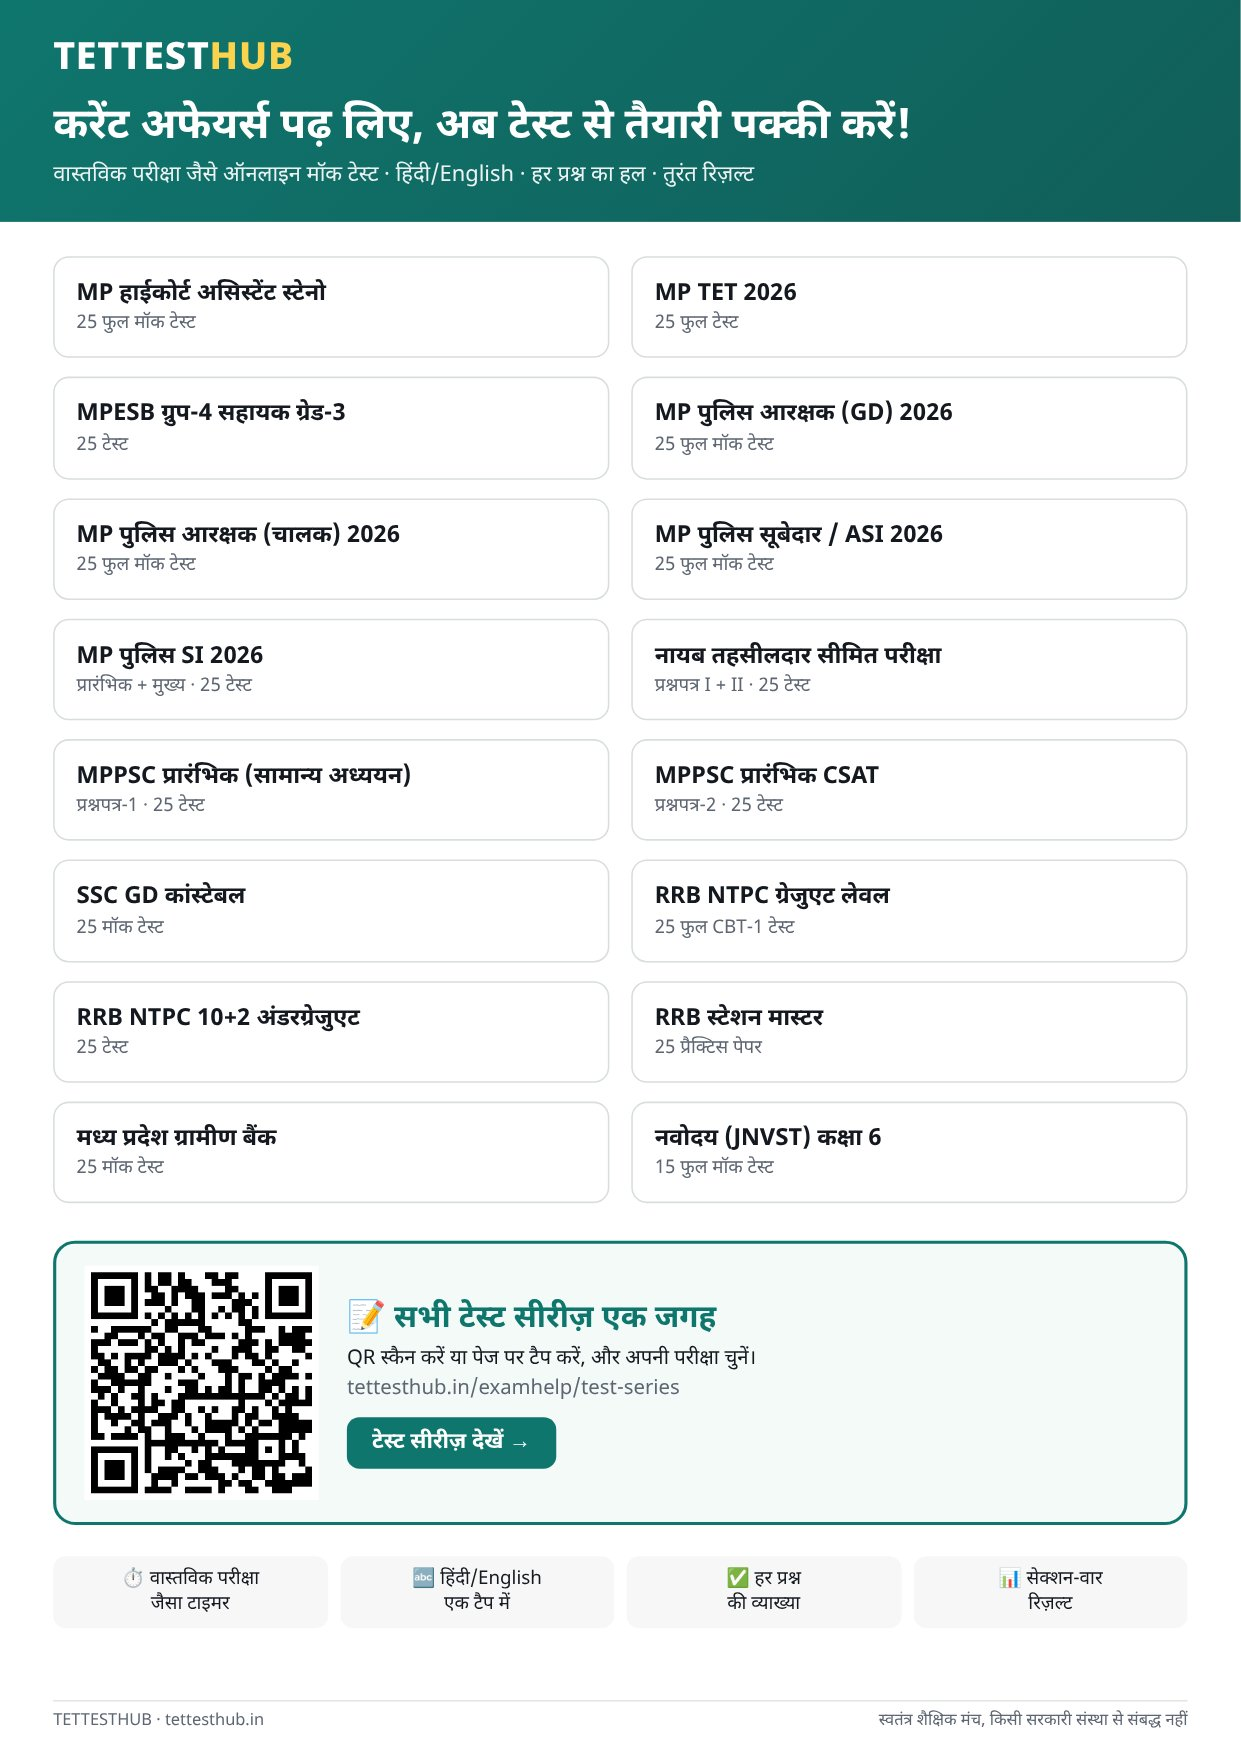
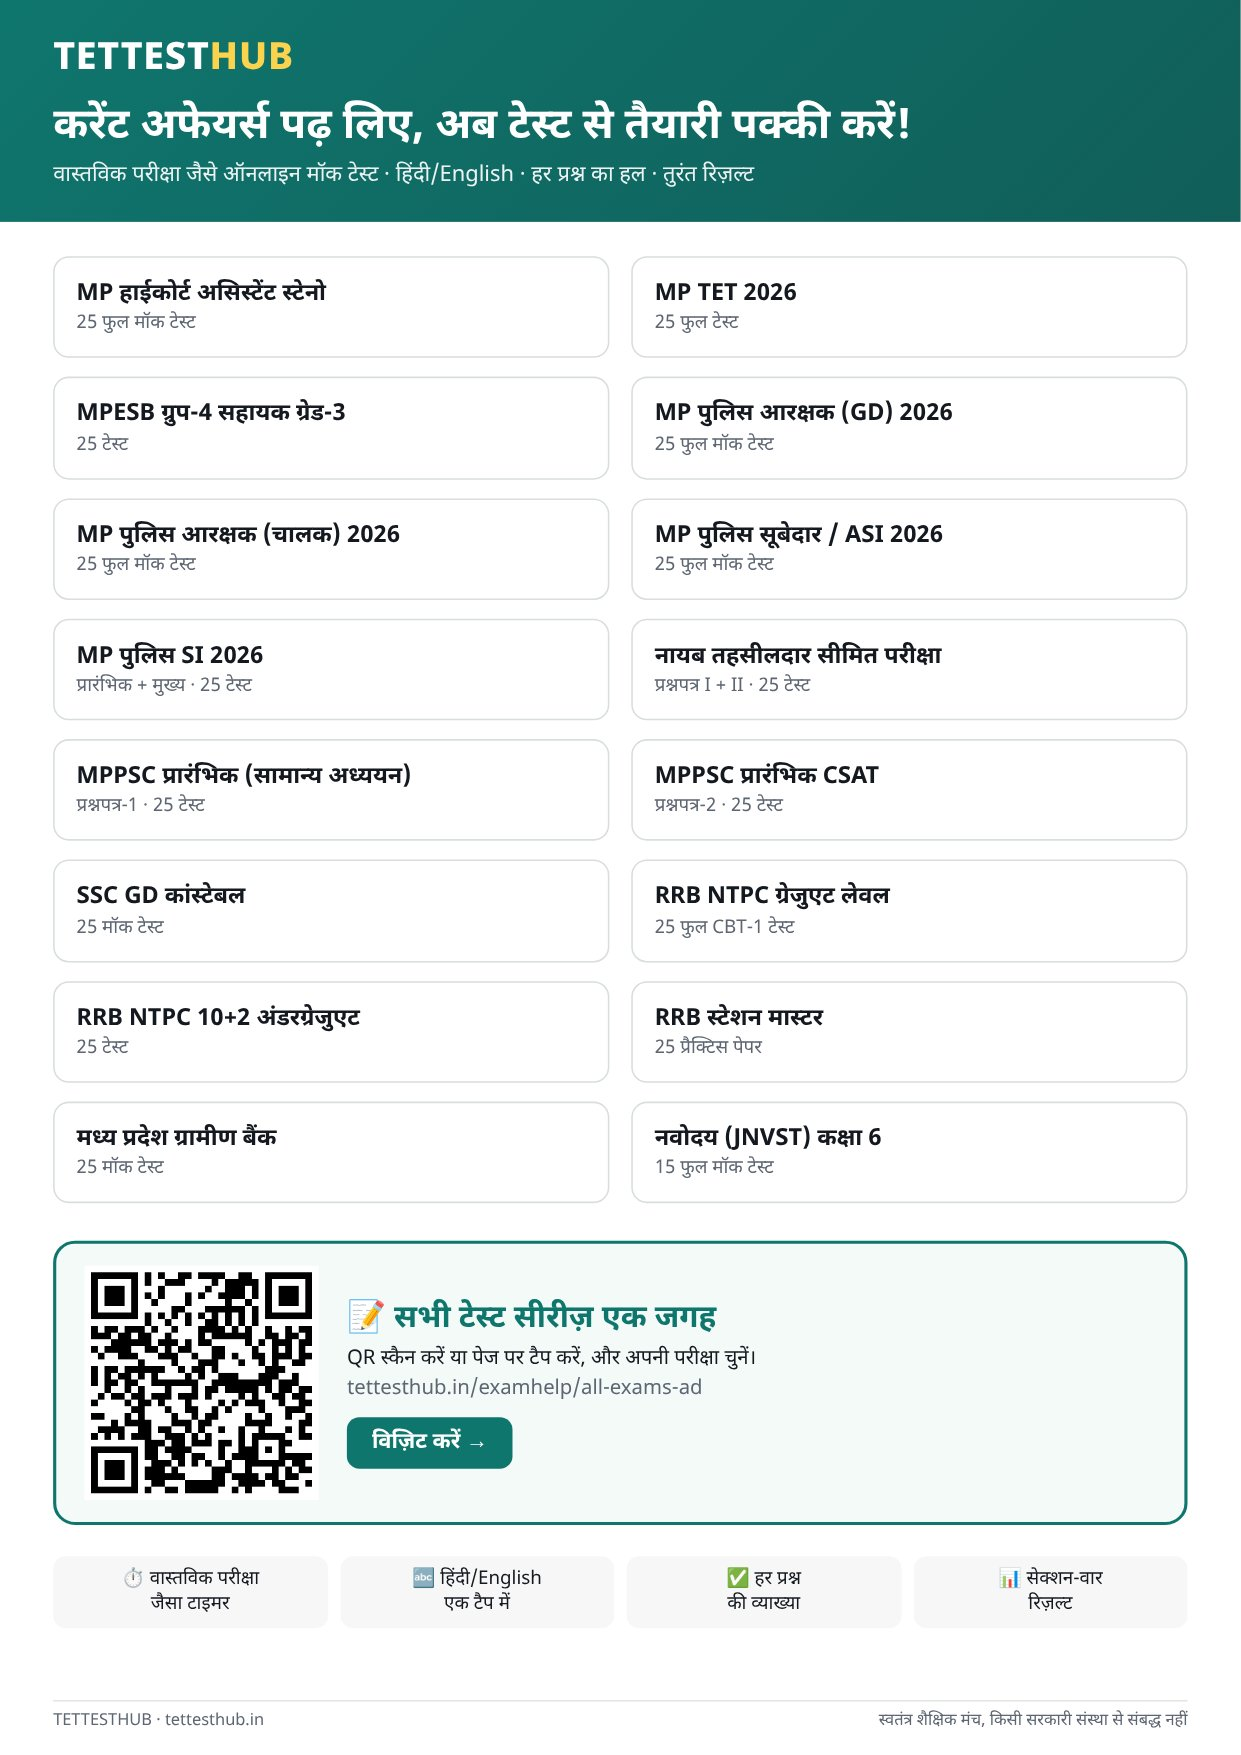
CA PDF ads: QR, buttons and page links go to /examhelp/all-exams-ad/
Claude-Session: https://claude.ai/code/session_018t1ajhoC5SLGEzRroiS6LT

Changed region(s): [[0.0612, 0.7077, 0.245, 0.8615], [0.3062, 0.8, 0.4593, 0.8615], [0.4593, 0.7692, 0.5512, 0.8]]

diff --git a/examhelp/src/components/ca/CurrentAffairsClient.tsx b/examhelp/src/components/ca/CurrentAffairsClient.tsx
@@ -64,9 +64,10 @@ const fmtDay = (d: string, lang: Lang, long = false) =>
   });
 
 // Advert pages added at the end of the PDF; each page is a tap link.
+const AD_URL = "https://tettesthub.in/examhelp/all-exams-ad/";
 const AD_PAGES = [
-  { img: "/ca-ads/ad-1.jpg", url: "https://tettesthub.in/examhelp/test-series/" },
-  { img: "/ca-ads/ad-2.jpg", url: "https://tettesthub.in/testhub/mock-tests/ag3/test.html?t=01&lang=en" },
+  { img: "/ca-ads/ad-1.jpg", url: AD_URL },
+  { img: "/ca-ads/ad-2.jpg", url: AD_URL },
 ];
 
 async function toDataUrl(src: string): Promise<string> {
